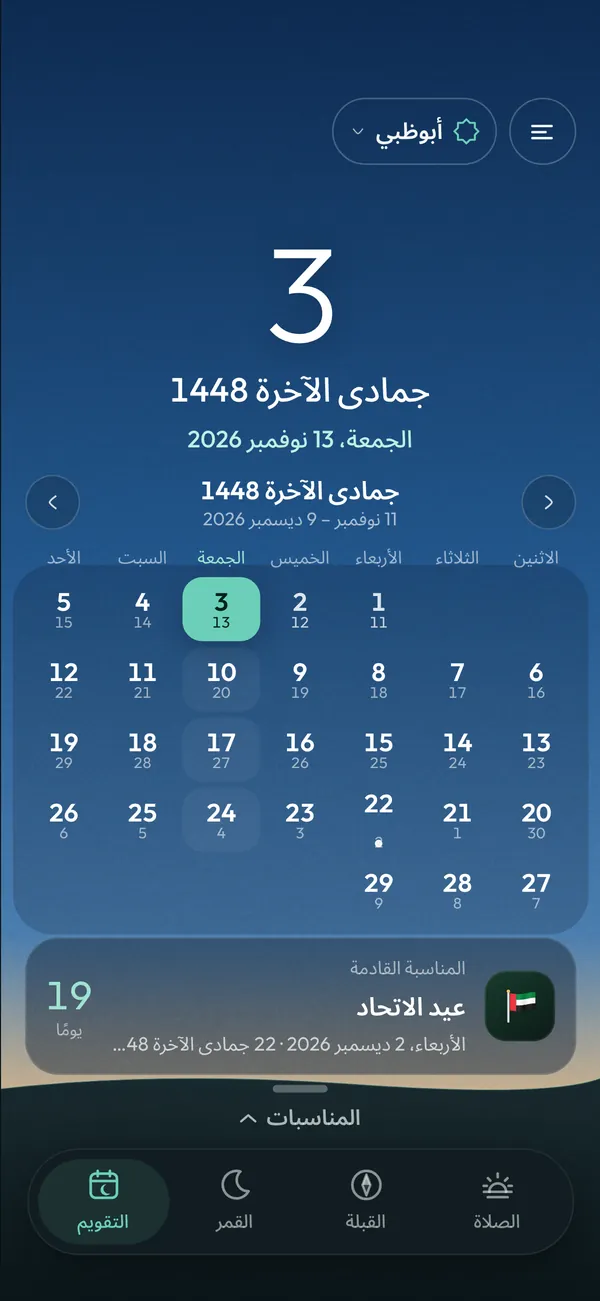
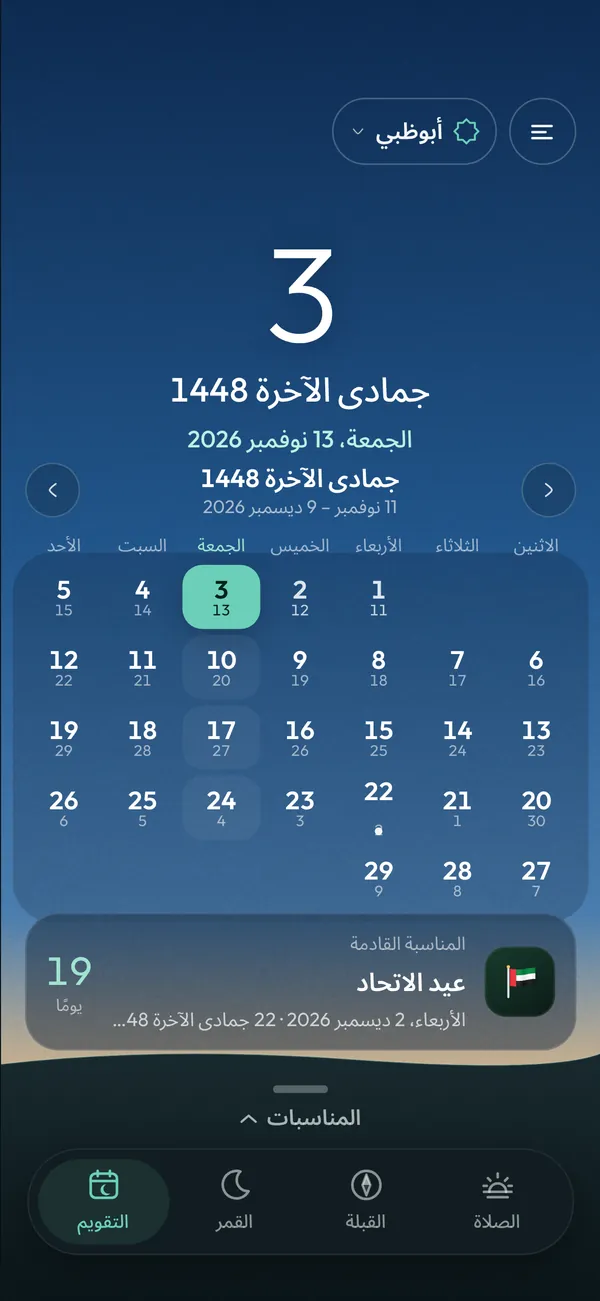
Screenshots updated to the current app (Arabic moon quarters «تربيع أول / أخير», three-line phase row)
Claude-Session: https://claude.ai/code/session_01JDPH6hoNLas5MNMVyWrQWh

diff --git a/privacy.html b/privacy.html
@@ -227,10 +227,18 @@ h1,h2,h3,p{margin:0}
  .fl{flex-wrap:wrap;justify-content:center;column-gap:18px}.fl a{white-space:nowrap}
 }
 @media (prefers-reduced-motion:no-preference){
- .ph{animation:rise .9s cubic-bezier(.23,1,.32,1) both}
- .phones .p1{animation-delay:.08s}.phones .p3{animation-delay:.16s}
+ .phones .p2{animation:rise .9s cubic-bezier(.23,1,.32,1) both}
+ .phones .p1,.phones .p3{animation:settle 1.1s cubic-bezier(.23,1,.32,1) .28s both}
+ .lang{transition:transform .16s ease-out}.lang:active{transform:scale(.97)}
+ .arm .fshot .ph{opacity:0;translate:0 22px;transition:opacity .7s ease-out,translate .9s cubic-bezier(.23,1,.32,1)}
+ .arm .fshot.in .ph{opacity:1;translate:0 0}
+ .arm .story .ag{stroke-dasharray:1;stroke-dashoffset:1}
+ .arm .story .sun{opacity:0;transition:opacity .5s ease-out}
+ .arm .story .ad{opacity:0;transition:opacity .9s ease-out}
+ .arm .story.in .sun{opacity:1}.arm .story.done .ad{opacity:1}
 }
 @keyframes rise{from{opacity:0;translate:0 24px}}
+@keyframes settle{from{opacity:0;translate:0 30px;rotate:0deg}}
 @media (prefers-reduced-motion:no-preference){html{scroll-behavior:smooth}}
 
 .dhead{position:relative;overflow:hidden;background:linear-gradient(180deg,#081428 0%,#0F2A4F 30%,#24578A 58%,#5D8DB8 74%,#B9AE9C 88%,#E7B583 97.4%,#16262D 97.5%,#0A1117 100%)}

diff --git a/support.html b/support.html
@@ -227,10 +227,18 @@ h1,h2,h3,p{margin:0}
  .fl{flex-wrap:wrap;justify-content:center;column-gap:18px}.fl a{white-space:nowrap}
 }
 @media (prefers-reduced-motion:no-preference){
- .ph{animation:rise .9s cubic-bezier(.23,1,.32,1) both}
- .phones .p1{animation-delay:.08s}.phones .p3{animation-delay:.16s}
+ .phones .p2{animation:rise .9s cubic-bezier(.23,1,.32,1) both}
+ .phones .p1,.phones .p3{animation:settle 1.1s cubic-bezier(.23,1,.32,1) .28s both}
+ .lang{transition:transform .16s ease-out}.lang:active{transform:scale(.97)}
+ .arm .fshot .ph{opacity:0;translate:0 22px;transition:opacity .7s ease-out,translate .9s cubic-bezier(.23,1,.32,1)}
+ .arm .fshot.in .ph{opacity:1;translate:0 0}
+ .arm .story .ag{stroke-dasharray:1;stroke-dashoffset:1}
+ .arm .story .sun{opacity:0;transition:opacity .5s ease-out}
+ .arm .story .ad{opacity:0;transition:opacity .9s ease-out}
+ .arm .story.in .sun{opacity:1}.arm .story.done .ad{opacity:1}
 }
 @keyframes rise{from{opacity:0;translate:0 24px}}
+@keyframes settle{from{opacity:0;translate:0 30px;rotate:0deg}}
 @media (prefers-reduced-motion:no-preference){html{scroll-behavior:smooth}}
 
 .dhead{position:relative;overflow:hidden;background:linear-gradient(180deg,#081428 0%,#0F2A4F 30%,#24578A 58%,#5D8DB8 74%,#B9AE9C 88%,#E7B583 97.4%,#16262D 97.5%,#0A1117 100%)}
